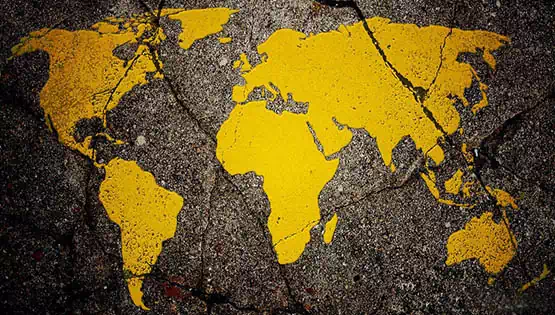
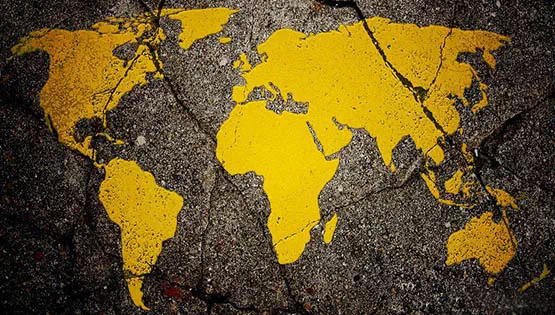
added webp on index.html

Changed region(s): [[0.3369, 0.1429, 0.3676, 0.1714]]

diff --git a/index.html b/index.html
@@ -90,21 +90,33 @@
             </ol>
             <div class="carousel-inner shadow-lg">
                 <div class="carousel-item active">
-                    <img class="d-block w-100" src="/images/index_carousel1.jpg" alt="First slide">
+                    <picture>
+                        <source srcset="/images/webp/index_carousel1.webp" type="images/webp">
+                        <source srcset="/images/index_carousel1.jpg" type="images/jpeg">
+                        <img class="d-block w-100" src="/images/index_carousel1.jpg" alt="First slide">
+                    </picture>
                     <div class="carousel-caption d-block">
                         <a href="contactus.html" class="btn btn-outline-primary btn-lg d-none d-sm-inline-block">Get a FREE quote</a>
                         <p>Contact us if you want your parking lot to attract your customers</p>
                     </div>
                 </div>
                 <div class="carousel-item">
-                    <img class="d-block w-100" src="/images/index_carousel2.jpg" alt="Second slide">
+                    <picture>
+                        <source srcset="/images/webp/index_carousel2.webp" type="images/webp">
+                        <source srcset="/images/index_carousel2.jpg" type="images/jpeg">
+                        <img class="d-block w-100" src="/images/index_carousel2.jpg" alt="Second slide">
+                    </picture>
                     <div class="carousel-caption d-block">
                         <a href="contactus.html" class="btn btn-outline-primary btn-lg d-none d-sm-inline-block">Get a FREE quote</a>
                         <p>Want to play your favorite game on your newly painted gaming court?</p>
                     </div>
                 </div>
                 <div class="carousel-item">
-                    <img class="d-block w-100" src="/images/index_carousel3.jpg" alt="Third slide">
+                    <picture>
+                        <source srcset="/images/webp/index_carousel3.webp" type="images/webp">
+                        <source srcset="/images/index_carousel3.jpg" type="images/jpeg">
+                        <img class="d-block w-100" src="/images/index_carousel3.jpg" alt="Third slide">
+                    </picture>
                     <div class="carousel-caption d-block">
                         <a href="contactus.html" class="btn btn-outline-primary btn-lg d-none d-sm-inline-block">Get a FREE quote</a>
                         <p>Get the best professionals in the San Diego county</p>
@@ -123,6 +135,11 @@
     </main>
 
     <div class="worker-container">
+        <picture>
+            <source srcset="/images/webp/tool.webp" type="images/webp">
+            <source srcset="/images/images/tool.png" type="images/png">
+            <img class="d-block w-100" src="images/tool.png" alt="First slide">
+        </picture>
         <img src="images/tool.png" class="worker pt-3" id="worker" alt="Worker logo">
     </div>
 
@@ -134,10 +151,18 @@
             </div>
 
             <div class="col-md-6 rounded order-1 order-md-2 textindex">
-                <img src="images/index_striping.jpg" alt="Pic" class="img-fluid rounded">
+                <picture>
+                    <source srcset="/images/webp/index_striping.webp" type="images/webp">
+                    <source srcset="images/index_striping.jpg" type="images/jpeg">
+                    <img src="images/index_striping.jpg" alt="Pic" class="img-fluid rounded">
+                </picture>
             </div>
             <div class="col-md-6 order-3 textindex">
-                <img src="images/index_court.jpg" alt="Pic" class="img-fluid rounded">
+                <picture>
+                    <source srcset="/images/webp/index_court.webp" type="images/webp">
+                    <source srcset="images/index_court.jpg" type="images/jpeg">
+                    <img src="images/index_court.jpg" alt="Pic" class="img-fluid rounded">
+                </picture>
             </div>
             <div class="col-md-6 rounded textindex order-4">
                 <h2 class="pt-lg-2 pt-xl-4 pb-xl-3">Game Court Painting</h2>
@@ -149,10 +174,18 @@
             </div>
 
             <div class="col-md-6 rounded order-5 order-md-6 textindex">
-                <img src="images/index_sealcoating.jpg" alt="Sealcoating photo" class="img-fluid rounded">
+                <picture>
+                    <source srcset="/images/webp/index_sealcoating.webp" type="images/webp">
+                    <source srcset="images/index_sealcoating.jpg" type="images/jpeg">
+                    <img src="images/index_sealcoating.jpg" alt="Sealcoating photo" class="img-fluid rounded">
+                </picture>
             </div>
             <div class="col-md-6 order-7 textindex">
-                <img src="images/index_world.jpg" alt="World Photo" class="img-fluid rounded">
+                <picture>
+                    <source srcset="/images/webp/index_world.webp" type="images/webp">
+                    <source srcset="images/index_world.jpg" type="images/jpeg">
+                        <img src="images/index_world.jpg" alt="World Photo" class="img-fluid rounded">
+                </picture>
             </div>
             <div class="col-md-6 rounded textindex order-8">
                 <h2 class="pt-lg-2 pt-xl-4 pb-xl-3">Personalised Services</h2>

diff --git a/gallery.html b/gallery.html
@@ -16,7 +16,7 @@
             @import url('https://fonts.googleapis.com/css?family=Roboto:400,700');
         </style>
 
-        <link rel="stylesheet" href="https://stackpath.bootstrapcdn.com/bootstrap/4.1.3/css/bootstrap.min.css">
+        <link rel="stylesheet" href="https://stackpath.bootstrapcdn.com/bootstrap/4.3.1/css/bootstrap.min.css" integrity="sha384-ggOyR0iXCbMQv3Xipma34MD+dH/1fQ784/j6cY/iJTQUOhcWr7x9JvoRxT2MZw1T" crossorigin="anonymous">
         <link rel="stylesheet" href="https://cdnjs.cloudflare.com/ajax/libs/baguettebox.js/1.11.0/baguetteBox.min.css">
         <link rel="stylesheet" href="css/styles.css">
 
@@ -204,9 +204,13 @@
             <p class="pl-5 pt-2 pb-3">Lic # 983424</p>
         </div>
 
-        <script src="https://code.jquery.com/jquery-3.3.1.slim.min.js"></script>
-        <script src="https://cdnjs.cloudflare.com/ajax/libs/popper.js/1.14.3/umd/popper.min.js"></script>
-        <script src="https://stackpath.bootstrapcdn.com/bootstrap/4.1.3/js/bootstrap.min.js"></script>
+        <script
+        src="https://code.jquery.com/jquery-3.4.1.min.js"
+        integrity="sha256-CSXorXvZcTkaix6Yvo6HppcZGetbYMGWSFlBw8HfCJo="
+        crossorigin="anonymous">
+         </script>
+        <script src="https://cdnjs.cloudflare.com/ajax/libs/popper.js/1.14.7/umd/popper.min.js" integrity="sha384-UO2eT0CpHqdSJQ6hJty5KVphtPhzWj9WO1clHTMGa3JDZwrnQq4sF86dIHNDz0W1" crossorigin="anonymous"></script>
+        <script src="https://stackpath.bootstrapcdn.com/bootstrap/4.3.1/js/bootstrap.min.js" integrity="sha384-JjSmVgyd0p3pXB1rRibZUAYoIIy6OrQ6VrjIEaFf/nJGzIxFDsf4x0xIM+B07jRM" crossorigin="anonymous"></script>
         <script src="js/modernizr-webp.js"></script>
         <script src="https://cdnjs.cloudflare.com/ajax/libs/baguettebox.js/1.11.0/baguetteBox.min.js"></script>
         
